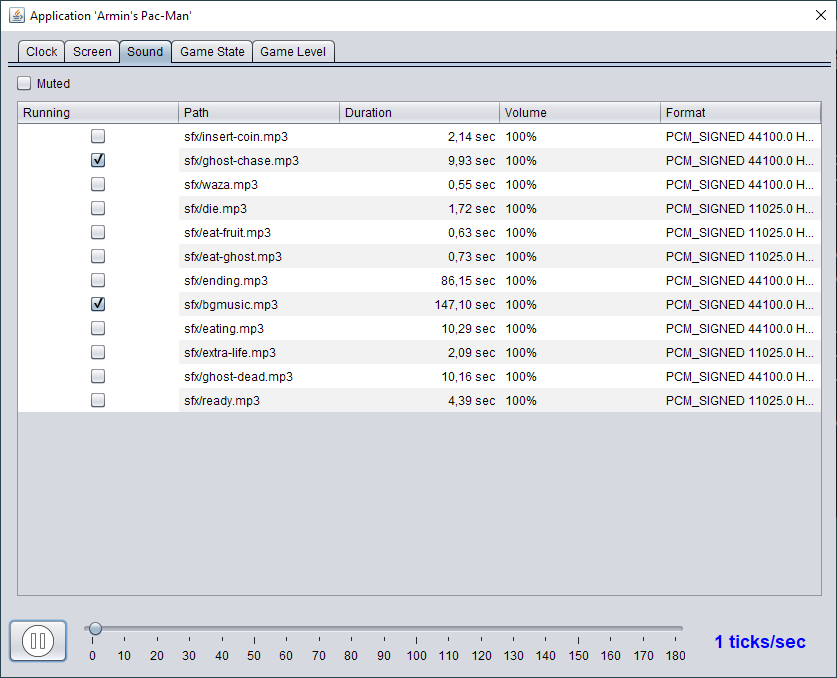
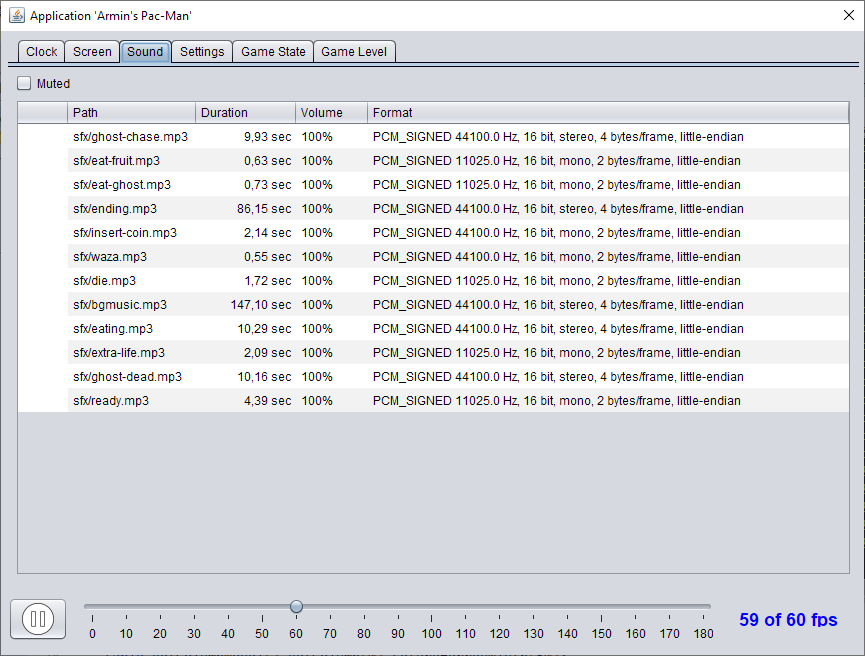
improved F2 UI

diff --git a/EasyGame/src/main/java/de/amr/easy/game/ui/f2dialog/sound/SoundTableModel.java b/EasyGame/src/main/java/de/amr/easy/game/ui/f2dialog/sound/SoundTableModel.java
@@ -10,13 +10,34 @@ import de.amr.easy.game.assets.SoundClip;
 
 public class SoundTableModel extends AbstractTableModel {
 
-	static final SoundTableModel SAMPLE_DATA = new SoundTableModel() {
+	static final SoundTableModel LOREM_IPSUM = new SoundTableModel() {
 
-		Object[] sampleRecord = { true, "path", 90f, .76f, "audio format" };
+		private final Record sampleRecord = new Record();
+
+		{
+			sampleRecord.running = true;
+			sampleRecord.path = "/path/to/sound/file";
+			sampleRecord.durationSeconds = 90;
+			sampleRecord.volume = 0.66f;
+			sampleRecord.audioFormat = "wav";
+		};
 
 		@Override
 		public Object getValueAt(int row, int col) {
-			return sampleRecord[col];
+			switch (ColumnInfo.at(col)) {
+			case Running:
+				return sampleRecord.running;
+			case Path:
+				return sampleRecord.path;
+			case Duration:
+				return sampleRecord.durationSeconds;
+			case Format:
+				return sampleRecord.audioFormat;
+			case Volume:
+				return sampleRecord.volume;
+			default:
+				return null;
+			}
 		}
 
 		@Override
@@ -33,25 +54,25 @@ public class SoundTableModel extends AbstractTableModel {
 		boolean running;
 	}
 
-	public enum Field {
+	public enum ColumnInfo {
 		//@formatter:off
-		Running(Boolean.class),
+		Running("", Boolean.class),
 		Path(String.class), 
 		Duration(Float.class),
 		Volume(Float.class),
 		Format(String.class);
 		//@formatter:on
 
-		static Field at(int col) {
+		static ColumnInfo at(int col) {
 			return values()[col];
 		}
 
-		private Field(Class<?> class_) {
+		private ColumnInfo(Class<?> class_) {
 			this.class_ = class_;
 			this.text = name();
 		}
 
-		private Field(String text, Class<?> class_) {
+		private ColumnInfo(String text, Class<?> class_) {
 			this.class_ = class_;
 			this.text = text;
 		}
@@ -86,7 +107,7 @@ public class SoundTableModel extends AbstractTableModel {
 	@Override
 	public Object getValueAt(int row, int col) {
 		Record r = records.get(row);
-		switch (Field.at(col)) {
+		switch (ColumnInfo.at(col)) {
 		case Running:
 			return r.running;
 		case Path:
@@ -104,12 +125,12 @@ public class SoundTableModel extends AbstractTableModel {
 
 	@Override
 	public String getColumnName(int col) {
-		return Field.at(col).text;
+		return ColumnInfo.at(col).text;
 	}
 
 	@Override
 	public Class<?> getColumnClass(int col) {
-		return Field.at(col).class_;
+		return ColumnInfo.at(col).class_;
 	}
 
 	@Override
@@ -119,6 +140,6 @@ public class SoundTableModel extends AbstractTableModel {
 
 	@Override
 	public int getColumnCount() {
-		return Field.values().length;
+		return ColumnInfo.values().length;
 	}
 }

diff --git a/EasyGame/src/main/java/de/amr/easy/game/ui/f2dialog/sound/SoundView.java b/EasyGame/src/main/java/de/amr/easy/game/ui/f2dialog/sound/SoundView.java
@@ -14,9 +14,10 @@ import javax.swing.JTable;
 import javax.swing.table.TableCellRenderer;
 
 import de.amr.easy.game.controller.Lifecycle;
-import de.amr.easy.game.ui.f2dialog.sound.SoundTableModel.Field;
+import de.amr.easy.game.ui.f2dialog.sound.SoundTableModel.ColumnInfo;
 import de.amr.easy.game.ui.f2dialog.util.PercentRenderer;
 import de.amr.easy.game.ui.f2dialog.util.SecondsRenderer;
+import de.amr.easy.game.ui.f2dialog.util.SoundWaveRenderer;
 import net.miginfocom.swing.MigLayout;
 
 /**
@@ -58,18 +59,26 @@ public class SoundView extends JPanel implements Lifecycle {
 		content.add(scrollPane, "cell 0 1,grow");
 
 		table = new JTable();
+		table.setAutoResizeMode(JTable.AUTO_RESIZE_LAST_COLUMN);
+		table.setRowSelectionAllowed(false);
 		table.setRowHeight(24);
 		scrollPane.setViewportView(table);
-		setupTable(SoundTableModel.SAMPLE_DATA);
+		setupTable(SoundTableModel.LOREM_IPSUM);
 	}
 
 	private void setupTable(SoundTableModel model) {
 		table.setModel(model);
-		setCellRenderer(Field.Volume, new PercentRenderer());
-		setCellRenderer(Field.Duration, new SecondsRenderer());
+		setCellRenderer(ColumnInfo.Running, new SoundWaveRenderer(table.getRowHeight()));
+		setCellRenderer(ColumnInfo.Volume, new PercentRenderer());
+		setCellRenderer(ColumnInfo.Duration, new SecondsRenderer());
+		table.getColumnModel().getColumn(0).setPreferredWidth(50);
+		table.getColumnModel().getColumn(1).setPreferredWidth(140);
+		table.getColumnModel().getColumn(2).setPreferredWidth(70);
+		table.getColumnModel().getColumn(3).setPreferredWidth(60);
+		table.getColumnModel().getColumn(4).setPreferredWidth(360);
 	}
 
-	private void setCellRenderer(Field column, TableCellRenderer r) {
+	private void setCellRenderer(ColumnInfo column, TableCellRenderer r) {
 		table.getColumnModel().getColumn(column.ordinal()).setCellRenderer(r);
 	}
 

diff --git a/EasyGame/src/main/java/de/amr/easy/game/ui/f2dialog/util/SoundWaveRenderer.java b/EasyGame/src/main/java/de/amr/easy/game/ui/f2dialog/util/SoundWaveRenderer.java
@@ -1,0 +1,40 @@
+package de.amr.easy.game.ui.f2dialog.util;
+
+import java.awt.Color;
+import java.awt.Component;
+import java.awt.image.BufferedImage;
+
+import javax.swing.ImageIcon;
+import javax.swing.JLabel;
+import javax.swing.JTable;
+import javax.swing.table.DefaultTableCellRenderer;
+import javax.swing.table.TableCellRenderer;
+
+public class SoundWaveRenderer extends DefaultTableCellRenderer implements TableCellRenderer {
+
+	private final ImageIcon waveIcon;
+	private final JLabel label;
+
+	public SoundWaveRenderer(int height) {
+		waveIcon = new ImageIcon(getClass().getResource("/icons/soundwave.png"));
+		resizeIcon(waveIcon, height);
+		label = new JLabel();
+	}
+
+	private void resizeIcon(ImageIcon icon, int height) {
+		int scaledWidth = height * icon.getIconWidth() / icon.getIconHeight();
+		BufferedImage img = new BufferedImage(scaledWidth, height, BufferedImage.TYPE_INT_ARGB);
+		img.getGraphics().drawImage(icon.getImage(), 0, 0, scaledWidth, height, null);
+		icon.setImage(img);
+	}
+
+	@Override
+	public Component getTableCellRendererComponent(JTable table, Object value, boolean isSelected, boolean hasFocus,
+			int row, int column) {
+		boolean running = (boolean) value;
+		label.setOpaque(true);
+		label.setBackground(Color.WHITE);
+		label.setIcon(running ? waveIcon : null);
+		return label;
+	}
+}
